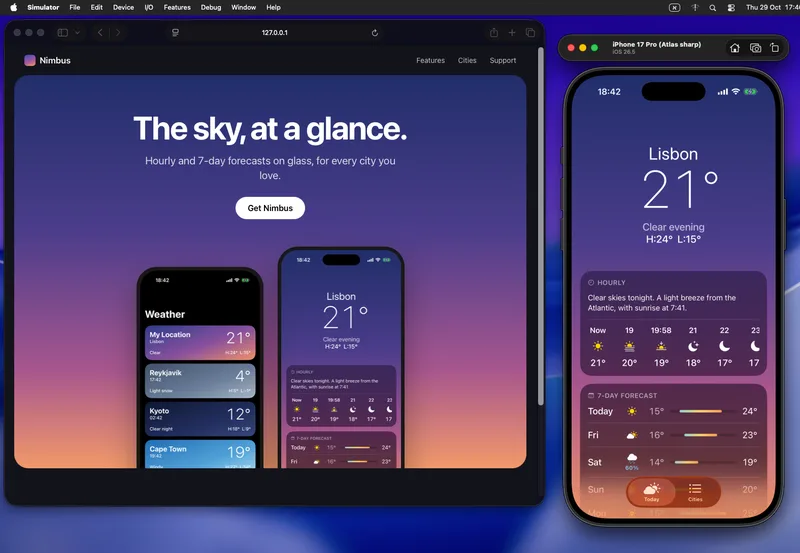
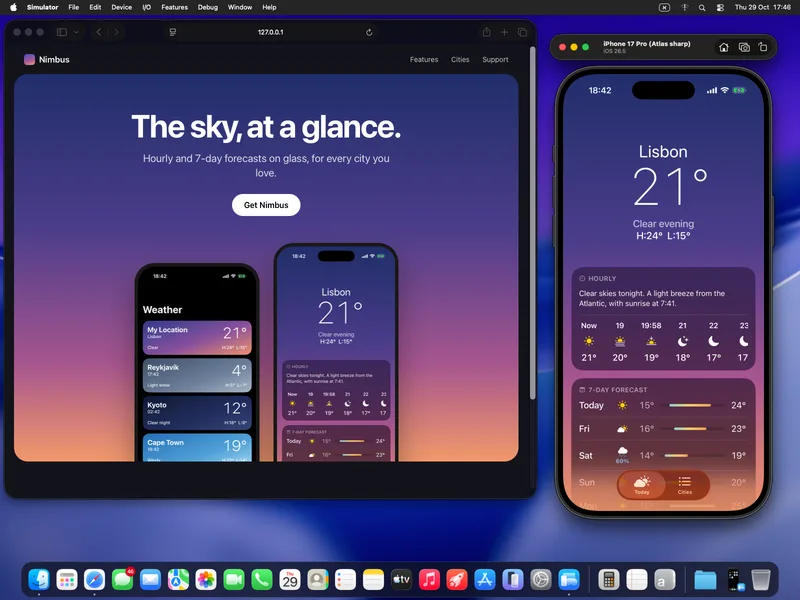
Website: show the whole macOS screen capture, uncropped
The home page's picture is now the full 1600x1200 capture of the VM's
screen, menu bar and Dock included, on every screen size.

diff --git a/site/pages/index.html b/site/pages/index.html
@@ -18,11 +18,10 @@ description: macbox runs macOS, Xcode and iOS Simulators on your Linux machine w
   </div>
   <figure class="shot">
     <picture>
-      <source media="(max-width: 600px)" type="image/webp" srcset="/images/desk-m-800.webp" width="800" height="969">
-      <source type="image/webp" srcset="/images/desk-800.webp 800w, /images/desk-1576.webp 1576w" sizes="(max-width: 1240px) calc(100vw - 40px), 1200px">
-      <img src="/images/desk-1576.jpg" width="1576" height="1090" fetchpriority="high" alt="The macOS 26 desktop in macbox on Linux: Simulator.app shows an iPhone 17 Pro running Nimbus, a weather app, next to Nimbus's website in Safari">
+      <source type="image/webp" srcset="/images/desk-800.webp 800w, /images/desk-1600.webp 1600w" sizes="(max-width: 1240px) calc(100vw - 40px), 1200px">
+      <img src="/images/desk-1600.jpg" width="1600" height="1200" fetchpriority="high" alt="The macOS 26 desktop in macbox on Linux: Simulator.app shows an iPhone 17 Pro running Nimbus, a weather app, next to Nimbus's website in Safari">
     </picture>
-    <figcaption>A real screen capture of macOS 26 in macbox, on Linux with an Intel integrated GPU. Nimbus is a demo app built for this page.</figcaption>
+    <figcaption>The full, uncropped screen of macOS 26 in macbox, running on Linux with an Intel integrated GPU. Nimbus is a demo app built for this page.</figcaption>
   </figure>
 </section>
 

diff --git a/site/style.css b/site/style.css
@@ -86,7 +86,7 @@ pre .c, .c { color: #8e8e93; }
 .logo { display: block; flex-shrink: 0; }
 @media (prefers-color-scheme: dark) { .logo path[fill="#111"] { fill: #2c2c2e; } }
 .shot { margin: clamp(56px, 7vw, 88px) auto 0; max-width: 1248px; padding-inline: clamp(12px, 3vw, 24px); }
-.shot img { display: block; width: 100%; height: auto; border-radius: clamp(8px, 1.2vw, 16px); background: #2a2f8a;
+.shot img { display: block; width: 100%; height: auto; border-radius: clamp(6px, .8vw, 10px); background: #2a2f8a;
   box-shadow: 0 0 0 1px rgba(0, 0, 0, .06), 0 2px 6px rgba(0, 0, 0, .06), 0 40px 90px -40px rgba(20, 24, 70, .55); }
 .shot figcaption, figure.chart figcaption { font-size: 13px; color: var(--ink3); margin-top: 18px; }
 

diff --git a/site/README.md b/site/README.md
@@ -13,7 +13,7 @@ python3 site/build.py --serve   # the same, then http://127.0.0.1:8000/macbox/
 |---|---|
 | `pages/` | one HTML fragment per page. A header of `key: value` lines, then `---`. The file's path is the URL: `pages/guides/xcode-on-linux.html` is `/guides/xcode-on-linux/` |
 | `layout.html`, `style.css` | the frame around every page; the CSS is inlined |
-| `static/` | copied as is: the favicon, the IndexNow key, search engines' verification files, and the home page's pictures in `static/images/`: `desk-*` is a real screen capture of the macOS VM's desktop (Simulator.app running Nimbus, a demo weather app made for these pictures, next to its website in Safari), cropped to 1576x1090 from the top left and saved as `-quality 84 desk-1576.webp`, `-resize 800x -quality 82 desk-800.webp` and `-quality 84 -interlace JPEG desk-1576.jpg`, plus a phone-width crop `-crop 900x1090+676+0 -resize 800x -quality 84 desk-m-800.webp`; `phone-today.webp` and `phone-cities.webp` are Nimbus's two screens from `mac-sim shot` on the 3x `sharp` simulator, `-resize 600x -quality 86`. The logos on the home page are inline SVG: Claude's from Simple Icons, OpenAI's and T3 Code's from T3 Code's repository) |
+| `static/` | copied as is: the favicon, the IndexNow key, search engines' verification files, and the home page's pictures in `static/images/`: `desk-*` is a real, uncropped capture of the macOS VM's whole screen (1600x1200: Simulator.app running Nimbus, a demo weather app made for these pictures, next to its website in Safari), saved as `-quality 84 desk-1600.webp`, `-resize 800x -quality 82 desk-800.webp` and `-quality 84 -interlace JPEG desk-1600.jpg`; `phone-today.webp` and `phone-cities.webp` are Nimbus's two screens from `mac-sim shot` on the 3x `sharp` simulator, `-resize 600x -quality 86`. The logos on the home page are inline SVG: Claude's from Simple Icons, OpenAI's and T3 Code's from T3 Code's repository) |
 
 The repo stays the source of truth. The guides answer one question each and link to `docs/` for the
 full reference; pictures (`docs/images`) and `llms.txt` are copied from the repo at build time, not
